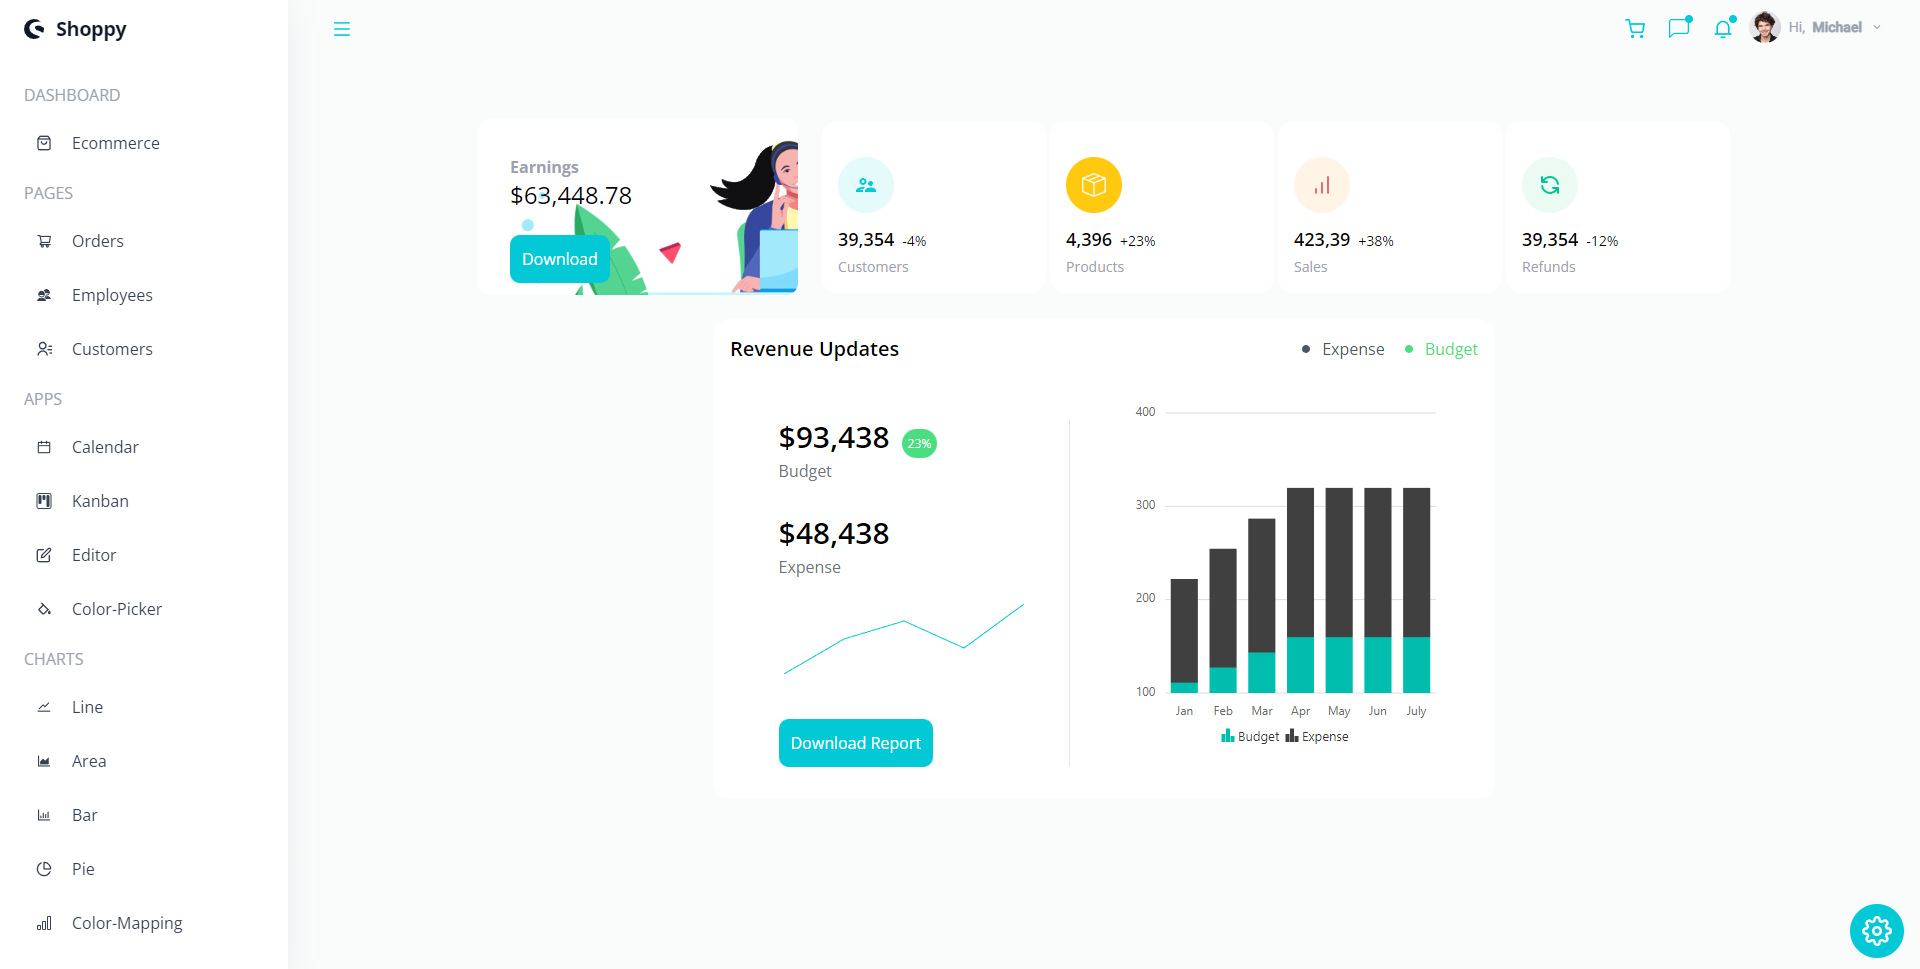
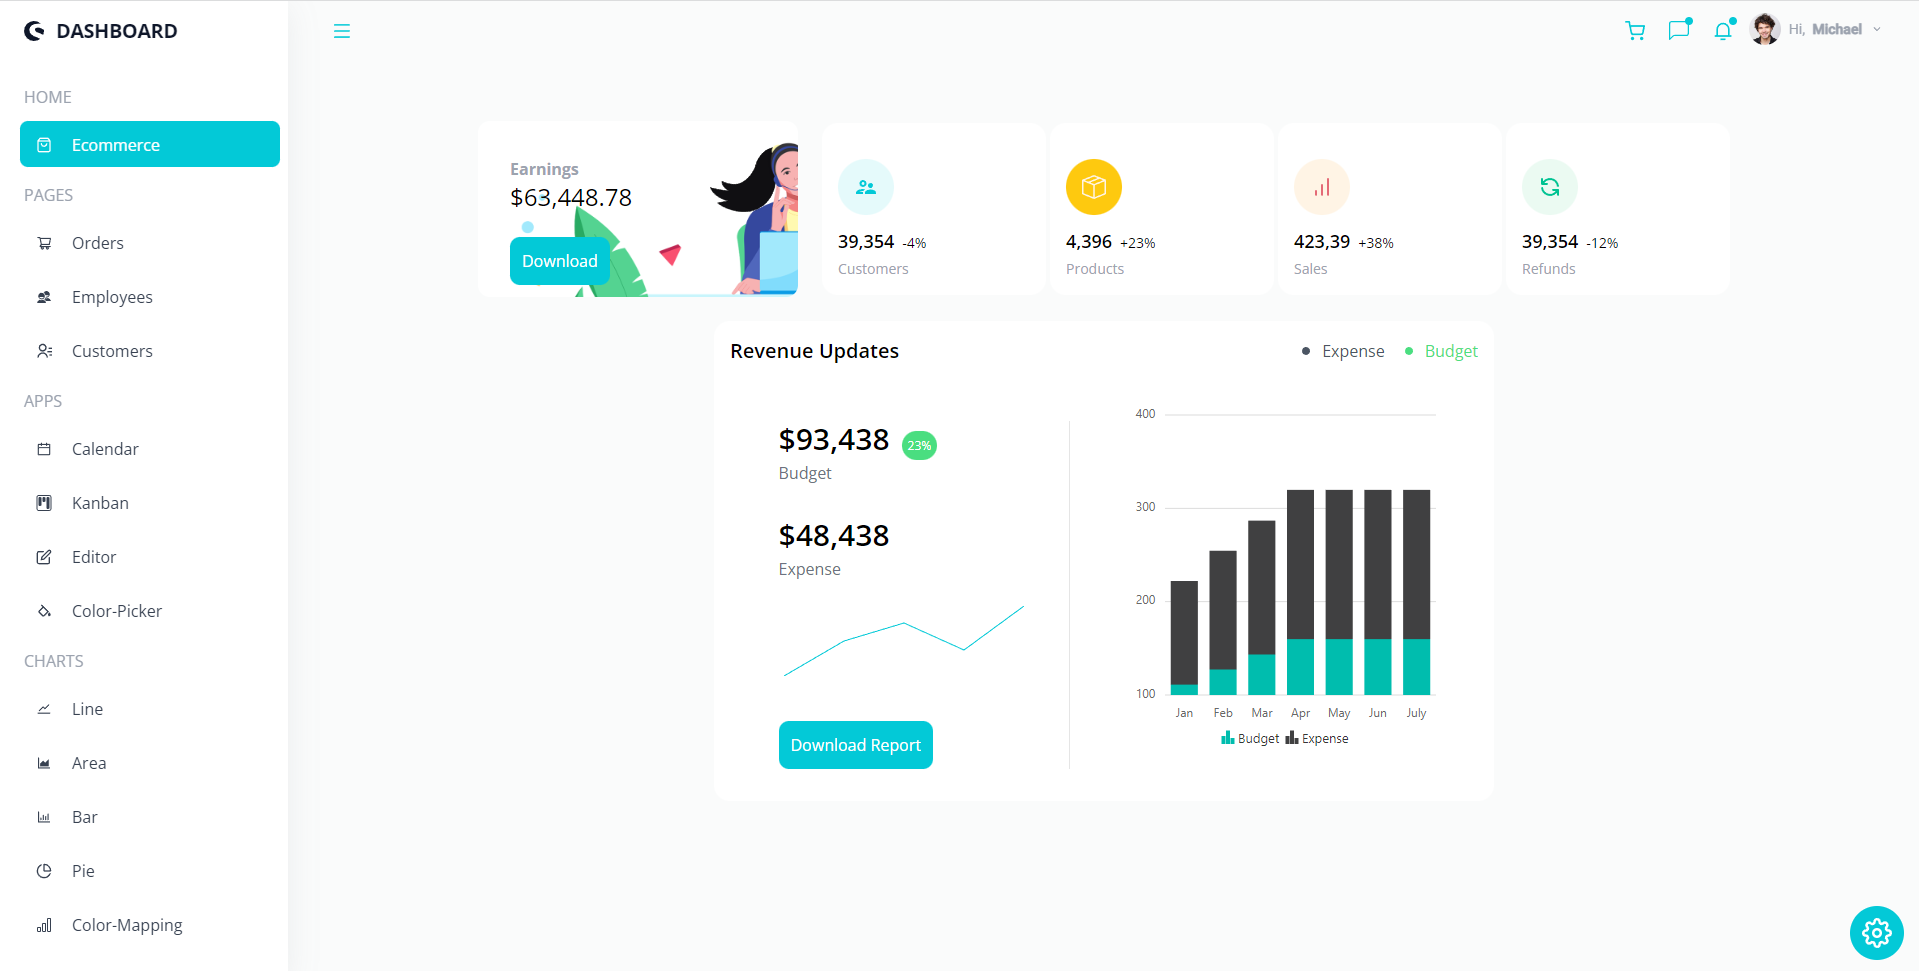
Build README by sections

diff --git a/src/pages/Charts/Pyramid.jsx b/src/pages/Charts/Pyramid.jsx
@@ -20,7 +20,7 @@ const Pyramid = () => {
 
   return (
     <div className="m-4 md:m-10 mt-24 p-10 bg-white dark:bg-secondary-dark-bg rounded-3xl">
-      <ChartsHeader category="Pyramid" title="Fod Comparison Chart" />
+      <ChartsHeader category="Pyramid" title="Food Comparison Chart" />
       <div className="w-full">
         <AccumulationChartComponent
           id="pyramid-chart"

diff --git a/src/data/dummy.js b/src/data/dummy.js
@@ -512,7 +512,7 @@ export const employeesGrid = [
 
 export const links = [
   {
-    title: "Dashboard",
+    title: "Home",
     links: [
       {
         name: "ecommerce",

diff --git a/README.md b/README.md
@@ -2,14 +2,95 @@
 
 <img alt="Landing Page" src="./public/readme/landing-page.PNG">
 
-![GitHub language count](https://img.shields.io/github/languages/count/kiqueangulo/dashboard-for-teams-ecommerce-and-financials?color=%23ba7072&logo=Common%20Workflow%20Language) ![GitHub top language](https://img.shields.io/github/languages/top/kiqueangulo/dashboard-for-teams-ecommerce-and-financials?logo=JavaScript) ![GitHub repo size](https://img.shields.io/github/repo-size/kiqueangulo/dashboard-for-teams-ecommerce-and-financials?color=Green&logo=GitHub)
+![GitHub language count](https://img.shields.io/github/languages/count/kiqueangulo/dashboard-for-teams-ecommerce-and-financials?color=%23ba7072&logo=Common%20Workflow%20Language) ![GitHub top language](https://img.shields.io/github/languages/top/kiqueangulo/dashboard-for-teams-ecommerce-and-financials?logo=JavaScript) ![GitHub repo size](https://img.shields.io/github/repo-size/kiqueangulo/dashboard-for-teams-ecommerce-and-financials?color=Green&logo=GitHub) ![GitHub](https://img.shields.io/github/license/kiqueangulo/dashboard-for-teams-ecommerce-and-financials?color=%23fdd835ff)
 
 <a href="https://www.linkedin.com/in/enrique-angulo/"><img alt="LinkedIn logo" src="public\readme\LinkedIn-Lets-Connect.png" width="150px" /></a>
 
 ## This is a broswer dashboard for charts analysis, product orders and sales organization, and team workflow. All in one.
 
+---
+
 ### Description
 
 Welcome to DASHBOARD! This a frontend browser application the users will be able to manage expenses and revenues, keep track of employees, customers, and product orders of their business, and display data in several types of charts for different analysis.
 
-I wanted to improve my React skills that I learned in bootcamp, and this project fitted that goal in different aspects of development.
+I wanted to improve my React skills that I learned in bootcamp, and this application fitted that goal in different aspects of development. This project was possible thanks to Adrian Hajdin a.k.a.
+JavaScript Mastery ([Youtube Channel](https://www.youtube.com/c/JavaScriptMastery), [GitHub](https://github.com/adrianhajdin)), whose videos have helped me throughout the programming learning curve.
+
+### Sections
+
+#### PAGES
+
+<img alt="Section of Pages in the sidebar" src="public\readme\pages.PNG" width="250px" />
+
+This section is focused to help in business management providing tools as follow.
+
+##### Orders
+
+<img alt="Orders from section Pages" src="public\readme\orders.PNG" width="500px" />
+
+Here the user can track the orders. Their status, the product and information about the product.
+
+##### Employees & Customers
+
+<img alt="Employees from section Pages" src="public\readme\employees.PNG" width="500px" />
+
+<img alt="Customers from section Pages" src="public\readme\customers.PNG" width="500px" />
+
+It's possible to have an organized space to store and manage people's information in the _Employees_ and _Customers_ section.
+
+#### APPS
+
+<img alt="Section of Apps in the sidebar" src="public\readme\apps.PNG" width="250px" />
+
+Task and time managemen, team workflow alongside with taking notes and choosing colors become easy in the section _APPS_, which includes the following fully functional and well known application respectively.
+
+##### Calendar
+
+<img alt="Calendar from section Apps with events" src="public\readme\calendar.PNG" width="500px" />
+
+##### Kanban
+
+<img alt="Kanban from section Apps with tasks" src="public\readme\kanban.PNG" width="500px" />
+
+##### Editor
+
+<img alt="Editor from section Apps with tamplate text" src="public\readme\editor.PNG" width="500px" />
+
+##### Color-Picker
+
+<img alt="Color Picker from section Apps with two color palettes" src="public\readme\color-picker.PNG" width="500px" />
+
+#### CHARTS
+
+<img alt="Section of Charts in the sidebar" src="public\readme\charts.PNG" width="250px" />
+
+In-depth data analysis and display information is another perk that app provides. With several types of charts to choose from, inflection points, trends, distribution patterns, and many other characteristics are more visible for the user in this section. Those charts are as follow.
+
+#### Line
+
+<img alt="Line chart from section Charts" src="public\readme\line.PNG" width="500px" />
+
+#### Area
+
+<img alt="Area chart from section Charts" src="public\readme\area.PNG" width="500px" />
+
+#### Bar
+
+<img alt="Bar chart from section Charts" src="public\readme\bar.PNG" width="500px" />
+
+#### Pie
+
+<img alt="Pie chart from section Charts" src="public\readme\pie.PNG" width="500px" />
+
+#### Color-Mapping
+
+<img alt="Color-Mapping chart from section Charts" src="public\readme\color-mapping.PNG" width="500px" />
+
+#### Pyramid
+
+<img alt="Pyramid chart from section Charts" src="public\readme\pyramid.PNG" width="500px" />
+
+#### Stacked
+
+<img alt="Stacked chart from section Charts" src="public\readme\stacked.PNG" width="500px" />
